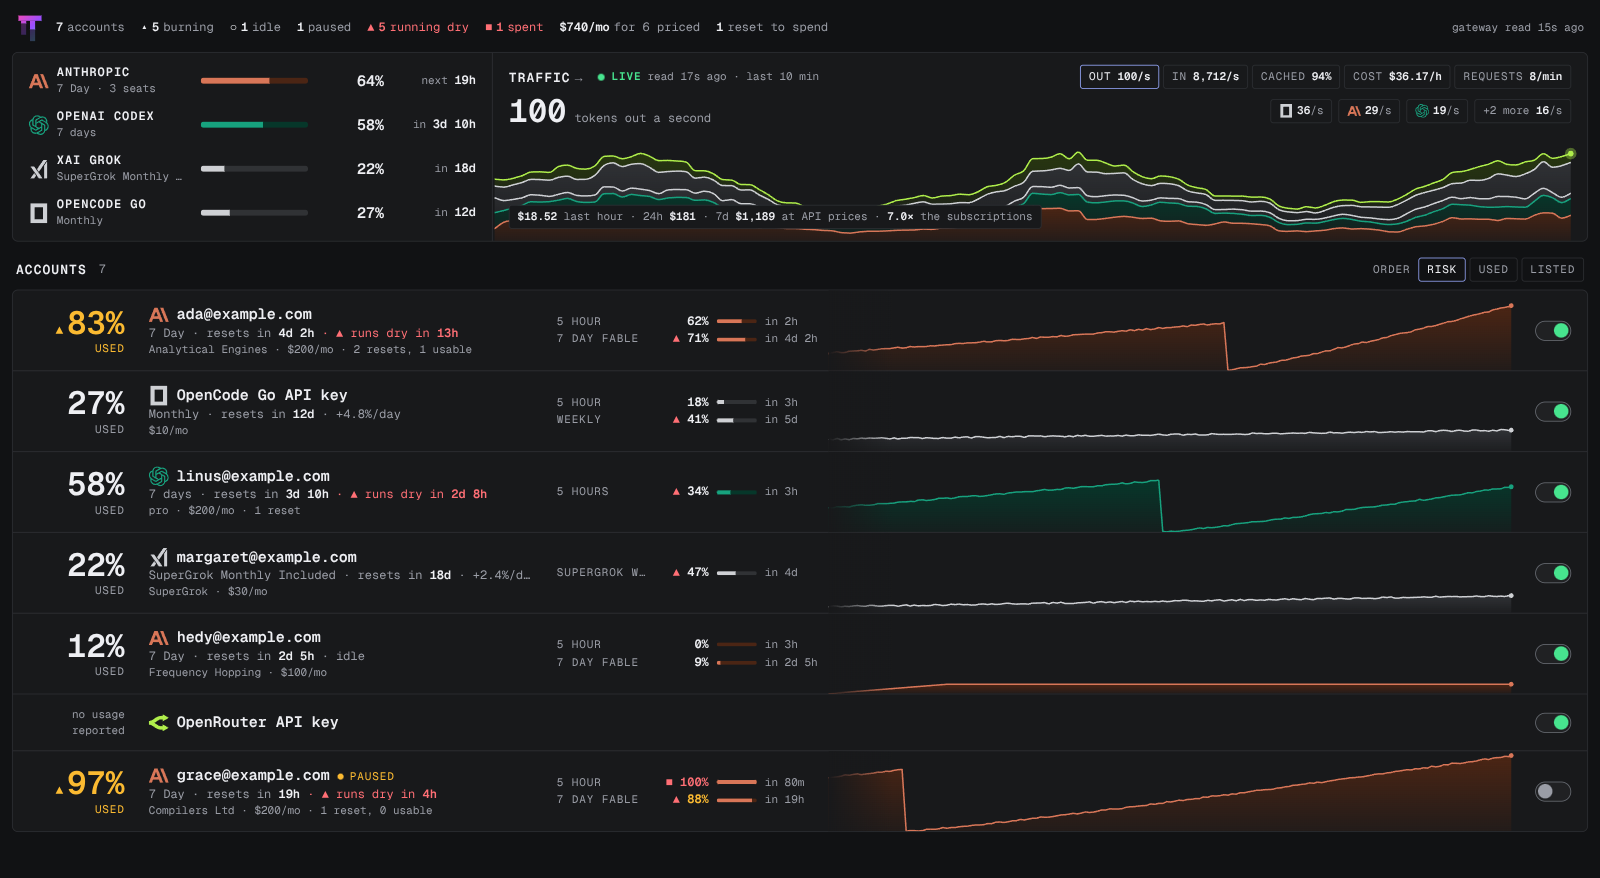
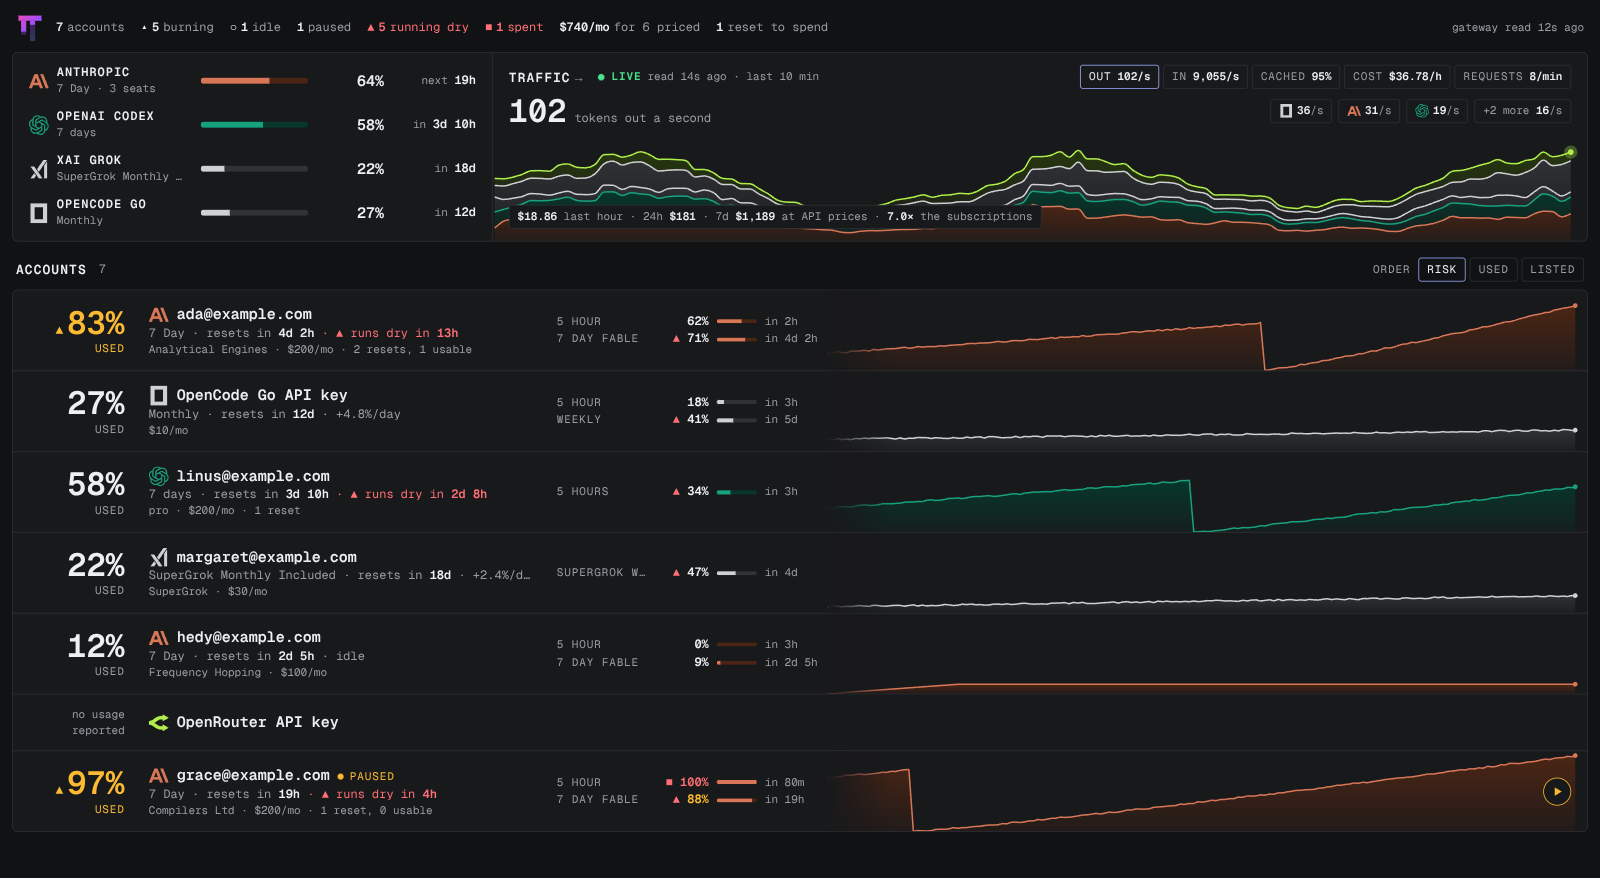
Let the chart run to the row's end, with a quiet pause button over it
The column of switches at the row's end was loud and cut the chart
short. The chart now runs to the row's end, and pausing is a small round
button over it: two bars to pause, a triangle to resume. With a mouse it
shows only when the row is pointed at or reached with the keyboard, so
the chart runs clear; on a touch screen it is always there. A paused
account keeps its button lit amber. It turns at once, and back if the
broker refuses.

diff --git a/web/src/pages/accounts/components/AccountRow.tsx b/web/src/pages/accounts/components/AccountRow.tsx
@@ -163,10 +163,12 @@ function WindowLine({
 }
 
 /**
- * Whether the gateway may hand the account work: on, its knob lit and to the
- * right; off, paused. It names the change it makes when pointed at.
+ * Pauses the account or resumes it: a small round button over the end of the
+ * chart. With a mouse it shows when the row is pointed at, so the chart runs
+ * clear; a paused account keeps it, lit, as a way back. It shows the change
+ * it makes: two bars to pause, a triangle to resume.
  */
-function PauseSwitch({
+function PauseButton({
   paused,
   pending,
   onToggle,
@@ -178,21 +180,27 @@ function PauseSwitch({
   return (
     <button
       type="button"
-      role="switch"
-      aria-checked={!paused}
-      aria-label="Take traffic"
-      title={paused ? 'Resume' : 'Pause'}
+      aria-label={paused ? 'Resume' : 'Pause'}
+      title={paused ? 'Resume: let omp send it traffic' : "Pause: move omp's traffic off it"}
       disabled={pending}
       onClick={onToggle}
-      className="inline-flex h-5 w-9 shrink-0 items-center rounded-full border border-border-strong bg-raised hover:border-foreground disabled:cursor-wait"
+      className={clsx(
+        'grid size-7 place-items-center rounded-full border bg-surface transition duration-150 disabled:cursor-wait motion-reduce:transition-none',
+        paused
+          ? 'border-warn text-warn hover:bg-raised'
+          : 'border-border text-muted hover:border-border-strong hover:text-foreground focus-visible:scale-100 focus-visible:opacity-100 pointer-fine:scale-75 pointer-fine:opacity-0 pointer-fine:group-hover:scale-100 pointer-fine:group-hover:opacity-100'
+      )}
     >
-      <span
-        aria-hidden="true"
-        className={clsx(
-          'size-3.5 rounded-full transition duration-200 motion-reduce:transition-none',
-          paused ? 'translate-x-0.5 bg-muted' : 'translate-x-4.5 bg-ok'
+      <svg aria-hidden="true" viewBox="0 0 12 12" className="size-3 fill-current">
+        {paused ? (
+          <path d="M3.5 1.75v8.5L10.5 6z" />
+        ) : (
+          <>
+            <rect x="2.5" y="1.5" width="2.5" height="9" rx="0.75" />
+            <rect x="7" y="1.5" width="2.5" height="9" rx="0.75" />
+          </>
         )}
-      />
+      </svg>
     </button>
   );
 }
@@ -202,8 +210,8 @@ function PauseSwitch({
  * On solid ground at the left: the big figure for its main usage window (the
  * one that resets last), who it is, when that window resets, and its other
  * windows as short lines. In the open middle: a chart of what it had used,
- * in its provider's colour, ending at now. At the end, with a broker: a
- * switch for whether it takes traffic. Trouble ahead (a window that runs dry
+ * in its provider's colour, running to the row's end at now. Over that
+ * end, with a broker: a small button to pause or resume it. Trouble ahead (a window that runs dry
  * before it resets at its pace) is the only forecast it shows, and its state
  * shows only when it is not taking work.
  */
@@ -223,7 +231,7 @@ export function AccountRow({ account, trends, start, now, controls, headingLevel
 
   const Heading = headingLevel === 2 ? 'h2' : 'h3';
   const headingId = `account-${account.id}`;
-  // The switch moves as soon as it is flipped, and back if the broker refuses.
+  // The button shows the change as soon as it is pressed, and back if the broker refuses.
   const paused = pause.isPending ? pause.variables.body.paused : account.paused;
   const { tone: stateTone, label } = state({ ...account, paused }, now);
   // The chart wears the provider's colour; the figure carries the state.
@@ -236,7 +244,7 @@ export function AccountRow({ account, trends, start, now, controls, headingLevel
   const marked = severityMarks[severity];
   const reset = primary ? resetIn(primary, now) : undefined;
   const others = account.limits.filter(limit => limit !== primary);
-  const switchable = controls && account.pausable;
+  const pausable = controls && account.pausable;
   // Where each window is heading at its pace: only trouble is called out.
   const view = viewAccount(account, trends, now);
   const runsDry = new Set(view.limits.filter(entry => entry.verdict === 'dry').map(entry => entry.limit.id));
@@ -256,19 +264,15 @@ export function AccountRow({ account, trends, start, now, controls, headingLevel
       aria-labelledby={headingId}
       data-severity={severity}
       data-chart={drawn ? (drawn.level ? 'level' : 'history') : 'none'}
-      className="relative overflow-hidden"
+      className="group relative overflow-hidden"
     >
       {drawn && (
         <>
           {/* A glow under a line, deepest under the line and fading towards the foot of
               the row. Its stops take the text colour, which is how a gradient wears a token.
-              On a wide screen it has the middle of the row to itself, clear of the words
-              and the switch; on a narrow one it runs behind the row and shows at its end. */}
-          <div
-            data-testid="history"
-            aria-hidden="true"
-            className={clsx('absolute inset-0 lg:left-204', controls && 'lg:right-19')}
-          >
+              On a wide screen it starts where the words end and runs to the row's end; on a
+              narrow one it runs behind the row and shows at its end. */}
+          <div data-testid="history" aria-hidden="true" className="absolute inset-0 lg:right-3 lg:left-204">
             <svg
               viewBox={`0 0 ${WIDTH} ${HEIGHT}`}
               preserveAspectRatio="none"
@@ -344,8 +348,8 @@ export function AccountRow({ account, trends, start, now, controls, headingLevel
         )}
 
         <div className="flex min-w-0 flex-1 flex-col lg:w-96 lg:flex-none">
-          {/* On a narrow row the switch sits at the end of this line, so only the name gives way to it. */}
-          <div className={clsx('flex items-center gap-2 text-muted', switchable && 'pr-12 lg:pr-0')}>
+          {/* On a narrow row the button sits at the end of this line, so only the name gives way to it. */}
+          <div className={clsx('flex items-center gap-2 text-muted', pausable && 'pr-8 lg:pr-0')}>
             <ProviderIcon provider={account.provider} size="md" />
             <Heading id={headingId} className="min-w-0 truncate text-title font-semibold text-foreground">
               <Link
@@ -401,9 +405,9 @@ export function AccountRow({ account, trends, start, now, controls, headingLevel
           </ul>
         )}
 
-        {switchable && (
-          <div className="absolute top-3 right-4 flex lg:static lg:ml-auto">
-            <PauseSwitch
+        {pausable && (
+          <div className="absolute top-2.5 right-3 flex lg:static lg:ml-auto">
+            <PauseButton
               paused={paused}
               pending={pause.isPending}
               onToggle={() => pause.mutate({ path: { accountId: account.id }, body: { paused: !paused } })}

diff --git a/web/src/pages/accounts/components/AccountRow.test.tsx b/web/src/pages/accounts/components/AccountRow.test.tsx
@@ -54,16 +54,12 @@ describe('AccountRow', () => {
     expect(others[0]!.querySelector('svg')).toBeNull();
   });
 
-  it('gives the chart the open middle of the row on a wide screen, clear of the words and the switch', () => {
-    const { rerender } = render(<AccountRow {...base} account={seatFixture} />);
+  it('gives the chart the rest of the row on a wide screen, clear of the words', () => {
+    render(<AccountRow {...base} account={seatFixture} />);
 
-    expect(screen.getByTestId('history')).toHaveClass('lg:left-204', 'lg:right-19');
+    expect(screen.getByTestId('history')).toHaveClass('lg:left-204', 'lg:right-3');
     // Nothing written is drawn over it: the words end where it starts.
     expect(screen.getByRole('list', { name: 'Other windows' })).toHaveClass('lg:w-64');
-
-    rerender(<AccountRow {...base} account={seatFixture} controls={false} />);
-    // Without a switch it runs to the edge.
-    expect(screen.getByTestId('history')).not.toHaveClass('lg:right-19');
   });
 
   it('leaves out the list when there are no other windows', () => {
@@ -134,11 +130,12 @@ describe('AccountRow', () => {
     expect(screen.getByRole('heading', { level: 2, name: 'two@example.com' })).toBeInTheDocument();
     // Paused wins over omp's own block.
     expect(screen.getByText('paused')).toHaveAttribute('data-tone', 'warn');
-    // A switch for taking traffic, off; pointed at, it names the change it makes.
-    const control = screen.getByRole('switch', { name: 'Take traffic' });
-    expect(control).not.toBeChecked();
+    // A way back, lit so it shows without pointing at the row; it says what it does.
+    const control = screen.getByRole('button', { name: 'Resume' });
     expect(control).toBeEnabled();
-    expect(control).toHaveAttribute('title', 'Resume');
+    expect(control).toHaveClass('text-warn');
+    expect(control).not.toHaveClass('pointer-fine:opacity-0');
+    expect(control).toHaveAttribute('title', 'Resume: let omp send it traffic');
   });
 
   it("names omp's own block when the account is not paused", () => {
@@ -149,13 +146,13 @@ describe('AccountRow', () => {
 
   it('offers no pause without a broker or without a credential', () => {
     const { rerender } = render(<AccountRow {...base} account={seatFixture} controls={false} />);
-    expect(screen.queryByRole('switch')).not.toBeInTheDocument();
+    expect(screen.queryByRole('button', { name: /^(Pause|Resume)$/ })).not.toBeInTheDocument();
     // A paused account still says so.
     rerender(<AccountRow {...base} account={pausedSeatFixture} controls={false} />);
     expect(screen.getByText('paused')).toBeInTheDocument();
 
     rerender(<AccountRow {...base} account={strayFixture} />);
-    expect(screen.queryByRole('switch')).not.toBeInTheDocument();
+    expect(screen.queryByRole('button', { name: /^(Pause|Resume)$/ })).not.toBeInTheDocument();
     // A provider that does not say how many resets are usable gets no count.
     expect(screen.getByText('pro · 1 reset')).toBeInTheDocument();
   });
@@ -190,9 +187,10 @@ describe('AccountRow', () => {
     const { client } = render(<AccountRow {...base} account={seatFixture} />);
     client.setQueryData(listAccountsQueryKey(), accountsFixture);
 
-    const control = screen.getByRole('switch', { name: 'Take traffic' });
-    expect(control).toBeChecked();
-    expect(control).toHaveAttribute('title', 'Pause');
+    const control = screen.getByRole('button', { name: 'Pause' });
+    // With a mouse it waits for the row to be pointed at, so the chart runs clear.
+    expect(control).toHaveClass('pointer-fine:opacity-0', 'pointer-fine:group-hover:opacity-100');
+    expect(control).toHaveAttribute('title', "Pause: move omp's traffic off it");
     fireEvent.click(control);
 
     await waitFor(() => {
@@ -205,12 +203,11 @@ describe('AccountRow', () => {
     server.use(pauseHandlers.pending);
     render(<AccountRow {...base} account={seatFixture} />);
 
-    fireEvent.click(screen.getByRole('switch', { name: 'Take traffic' }));
+    fireEvent.click(screen.getByRole('button', { name: 'Pause' }));
 
-    // It moves at once, and the state with it, and holds still until the broker answers.
-    const control = await screen.findByRole('switch', { name: 'Take traffic' });
+    // It turns at once, and the state with it, and holds still until the broker answers.
+    const control = await screen.findByRole('button', { name: 'Resume' });
     expect(control).toBeDisabled();
-    expect(control).not.toBeChecked();
     expect(screen.getByText('paused')).toBeInTheDocument();
   });
 
@@ -218,14 +215,13 @@ describe('AccountRow', () => {
     server.use(pauseHandlers.refused);
     render(<AccountRow {...base} account={seatFixture} />);
 
-    fireEvent.click(screen.getByRole('switch', { name: 'Take traffic' }));
+    fireEvent.click(screen.getByRole('button', { name: 'Pause' }));
 
     expect(await screen.findByRole('alert')).toHaveTextContent(
       'Could not pause the account: pause: POST /v1/credential/1/block: HTTP 401: unauthorized'
     );
-    // Refused, it moves back.
-    expect(screen.getByRole('switch', { name: 'Take traffic' })).toBeEnabled();
-    expect(screen.getByRole('switch', { name: 'Take traffic' })).toBeChecked();
+    // Refused, it turns back.
+    expect(screen.getByRole('button', { name: 'Pause' })).toBeEnabled();
     expect(screen.queryByText('paused')).not.toBeInTheDocument();
   });
 });

diff --git a/web/src/pages/accounts/components/AccountRow.stories.tsx b/web/src/pages/accounts/components/AccountRow.stories.tsx
@@ -39,9 +39,9 @@ type Story = StoryObj<typeof meta>;
 export const Default: Story = {
   play: async ({ canvas }) => {
     await expect(canvas.getByRole('article', { name: 'one@example.com' })).toBeInTheDocument();
-    // Taking work is the normal state and says nothing; the switch shows it.
+    // Taking work is the normal state and says nothing.
     await expect(canvas.queryByText('active')).not.toBeInTheDocument();
-    await expect(canvas.getByRole('switch', { name: 'Take traffic' })).toBeChecked();
+    await expect(canvas.getByRole('button', { name: 'Pause' })).toBeInTheDocument();
   },
 };
 
@@ -49,7 +49,7 @@ export const Paused: Story = {
   args: { account: pausedSeatFixture },
   play: async ({ canvas }) => {
     await expect(canvas.getByText('paused')).toHaveAttribute('data-tone', 'warn');
-    await expect(canvas.getByRole('switch', { name: 'Take traffic' })).not.toBeChecked();
+    await expect(canvas.getByRole('button', { name: 'Resume' })).toBeVisible();
   },
 };
 
@@ -63,7 +63,7 @@ export const Blocked: Story = {
 export const WithoutControls: Story = {
   args: { controls: false },
   play: async ({ canvas }) => {
-    await expect(canvas.queryByRole('switch')).not.toBeInTheDocument();
+    await expect(canvas.queryByRole('button', { name: /^(Pause|Resume)$/ })).not.toBeInTheDocument();
   },
 };
 
@@ -71,7 +71,7 @@ export const NoBrokerCredential: Story = {
   args: { account: strayFixture },
   play: async ({ canvas }) => {
     await expect(canvas.getByText('pro · 1 reset')).toBeInTheDocument();
-    await expect(canvas.queryByRole('switch')).not.toBeInTheDocument();
+    await expect(canvas.queryByRole('button', { name: /^(Pause|Resume)$/ })).not.toBeInTheDocument();
   },
 };
 
@@ -113,26 +113,24 @@ export const LongIdentifiers: Story = {
     },
   },
   play: async ({ canvas }) => {
-    await expect(canvas.getByRole('switch', { name: 'Take traffic' })).toBeVisible();
+    await expect(canvas.getByRole('button', { name: 'Pause' })).toBeInTheDocument();
   },
 };
 
 export const PausingInteraction: Story = {
   parameters: { msw: { handlers: [pauseHandlers.pending] } },
   play: async ({ canvas }) => {
-    await userEvent.click(canvas.getByRole('switch', { name: 'Take traffic' }));
-    // The switch moves at once, and holds still until the broker answers.
-    const control = await canvas.findByRole('switch', { name: 'Take traffic' });
-    await expect(control).toBeDisabled();
-    await expect(control).not.toBeChecked();
+    await userEvent.click(canvas.getByRole('button', { name: 'Pause' }));
+    // It turns at once, and holds still until the broker answers.
+    await expect(await canvas.findByRole('button', { name: 'Resume' })).toBeDisabled();
   },
 };
 
 export const PauseFailedInteraction: Story = {
   parameters: { msw: { handlers: [pauseHandlers.refused] } },
   play: async ({ canvas }) => {
-    await userEvent.click(canvas.getByRole('switch', { name: 'Take traffic' }));
+    await userEvent.click(canvas.getByRole('button', { name: 'Pause' }));
     await expect(await canvas.findByRole('alert')).toHaveTextContent('Could not pause the account');
-    await expect(canvas.getByRole('switch', { name: 'Take traffic' })).toBeChecked();
+    await expect(canvas.getByRole('button', { name: 'Pause' })).toBeEnabled();
   },
 };

diff --git a/web/src/pages/accounts/AccountsPage.stories.tsx b/web/src/pages/accounts/AccountsPage.stories.tsx
@@ -43,7 +43,7 @@ export const Default: Story = {
     const totals = await canvas.findByRole('list', { name: 'Totals' });
     await expect(within(totals).getByRole('listitem', { name: 'Anthropic 7 Day' })).toBeInTheDocument();
     await expect(await canvas.findByRole('region', { name: 'Traffic' })).toBeInTheDocument();
-    await expect(await canvas.findByRole('switch', { name: 'Take traffic', checked: false })).toBeInTheDocument();
+    await expect(await canvas.findByRole('button', { name: 'Resume' })).toBeInTheDocument();
   },
 };
 
@@ -63,7 +63,7 @@ export const Showcase: Story = {
   play: async ({ canvas }) => {
     const every = await canvas.findByRole('region', { name: 'Every account' });
     await expect(within(every).getAllByRole('article')).toHaveLength(7);
-    await expect(await canvas.findByRole('switch', { name: 'Take traffic', checked: false })).toBeInTheDocument();
+    await expect(await canvas.findByRole('button', { name: 'Resume' })).toBeInTheDocument();
     // No bar of pages: the traffic leads to its own page, with what it shows.
     await expect(canvas.queryByRole('navigation')).not.toBeInTheDocument();
     await expect(await canvas.findByRole('link', { name: 'Traffic' })).toHaveAttribute(
@@ -80,7 +80,7 @@ export const WithoutControls: Story = {
   play: async ({ canvas }) => {
     await expect(await canvas.findByRole('region', { name: 'Every account' })).toBeInTheDocument();
     // The order of the list can still be changed; nothing can be paused.
-    await expect(canvas.queryByRole('switch')).not.toBeInTheDocument();
+    await expect(canvas.queryByRole('button', { name: /^(Pause|Resume)$/ })).not.toBeInTheDocument();
   },
 };
 

diff --git a/web/src/pages/accounts/AccountsPage.test.tsx b/web/src/pages/accounts/AccountsPage.test.tsx
@@ -60,14 +60,14 @@ describe('AccountsPage', () => {
     const { unmount } = renderPage(true);
 
     // Two of the four accounts are pausable and not paused; one is paused.
-    expect(await screen.findAllByRole('switch', { name: 'Take traffic', checked: true })).toHaveLength(2);
-    expect(screen.getByRole('switch', { name: 'Take traffic', checked: false })).toBeInTheDocument();
+    expect(await screen.findAllByRole('button', { name: 'Pause' })).toHaveLength(2);
+    expect(screen.getByRole('button', { name: 'Resume' })).toBeInTheDocument();
 
     unmount();
     renderPage(false);
 
     expect(await screen.findByRole('region', { name: 'Every account' })).toBeInTheDocument();
-    expect(screen.queryByRole('switch')).not.toBeInTheDocument();
+    expect(screen.queryByRole('button', { name: /^(Pause|Resume)$/ })).not.toBeInTheDocument();
   });
 
   it('shows what is passing through the gateway when a broker is configured', async () => {

diff --git a/web/src/pages/accounts/AccountPage.test.tsx b/web/src/pages/accounts/AccountPage.test.tsx
@@ -33,7 +33,7 @@ describe('AccountPage', () => {
     expect(await screen.findByRole('heading', { level: 1, name: 'Anthropic' })).toBeInTheDocument();
     expect(screen.getByRole('heading', { level: 2, name: 'one@example.com' })).toBeInTheDocument();
     expect(screen.getByRole('link', { name: 'Accounts' })).toHaveAttribute('href', '/');
-    expect(screen.getByRole('switch', { name: 'Take traffic' })).toBeChecked();
+    expect(screen.getByRole('button', { name: 'Pause' })).toBeInTheDocument();
     expect(await screen.findByRole('img', { name: 'Used share of each limit over time' })).toBeInTheDocument();
   });
 

diff --git a/web/src/pages/accounts/AccountPage.stories.tsx b/web/src/pages/accounts/AccountPage.stories.tsx
@@ -38,7 +38,7 @@ export const Default: Story = {
 export const Paused: Story = {
   args: { accountId: pausedSeatFixture.id },
   play: async ({ canvas }) => {
-    await expect(await canvas.findByRole('switch', { name: 'Take traffic', checked: false })).toBeInTheDocument();
+    await expect(await canvas.findByRole('button', { name: 'Resume' })).toBeInTheDocument();
   },
 };
 

diff --git a/README.md b/README.md
@@ -8,7 +8,7 @@ passing through. One static binary with the UI built in.
 
 <picture>
   <source media="(prefers-color-scheme: dark)" srcset="docs/screenshots/accounts-dark.png" />
-  <img src="docs/screenshots/accounts-light.png" alt="The accounts page: a line of figures for the fleet, a band with a total for each provider beside the gateway's live traffic, and a band for each account drawn over its last seven days, with its other windows beside the name and a switch for taking traffic at the end" width="800" />
+  <img src="docs/screenshots/accounts-light.png" alt="The accounts page: a line of figures for the fleet, a band with a total for each provider beside the gateway's live traffic, and a band for each account drawn over its last seven days, with its other windows beside the name" width="800" />
 </picture>
 
 - **Accounts**: every account the gateway reports, with each usage window,
@@ -20,8 +20,8 @@ passing through. One static binary with the UI built in.
   steps (tokens out or in, cache share, cost an hour, requests a minute); the
   traffic on the accounts page opens its own page, where the same switch
   redraws the last hour by minute and the week by hour.
-- **Pause** (needs the broker): a switch on each account's row moves omp's
-  traffic off it and back.
+- **Pause** (needs the broker): a button at the end of each account's row
+  moves omp's traffic off it and back.
 
 <picture>
   <source media="(prefers-color-scheme: dark)" srcset="docs/screenshots/traffic-dark.png" />
